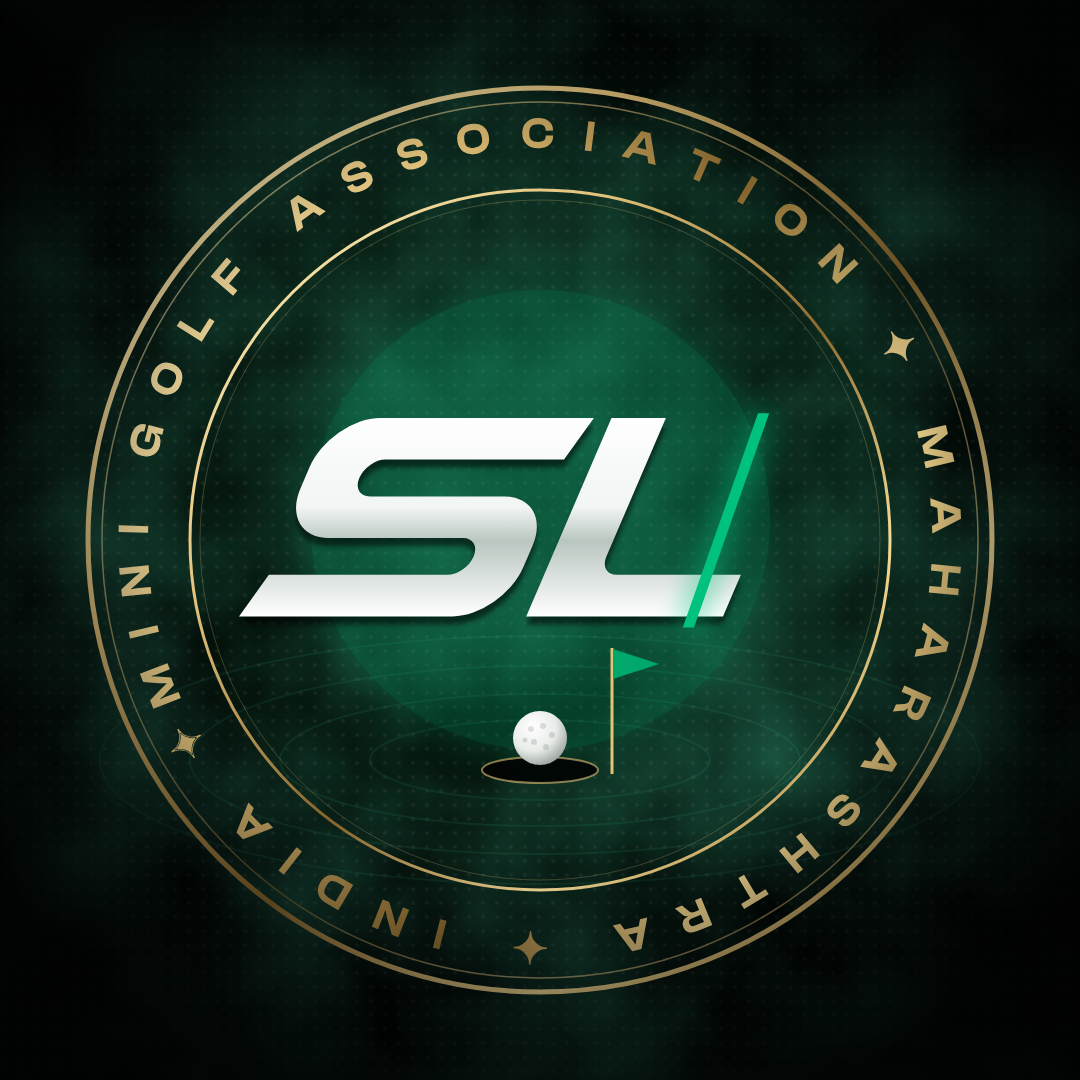
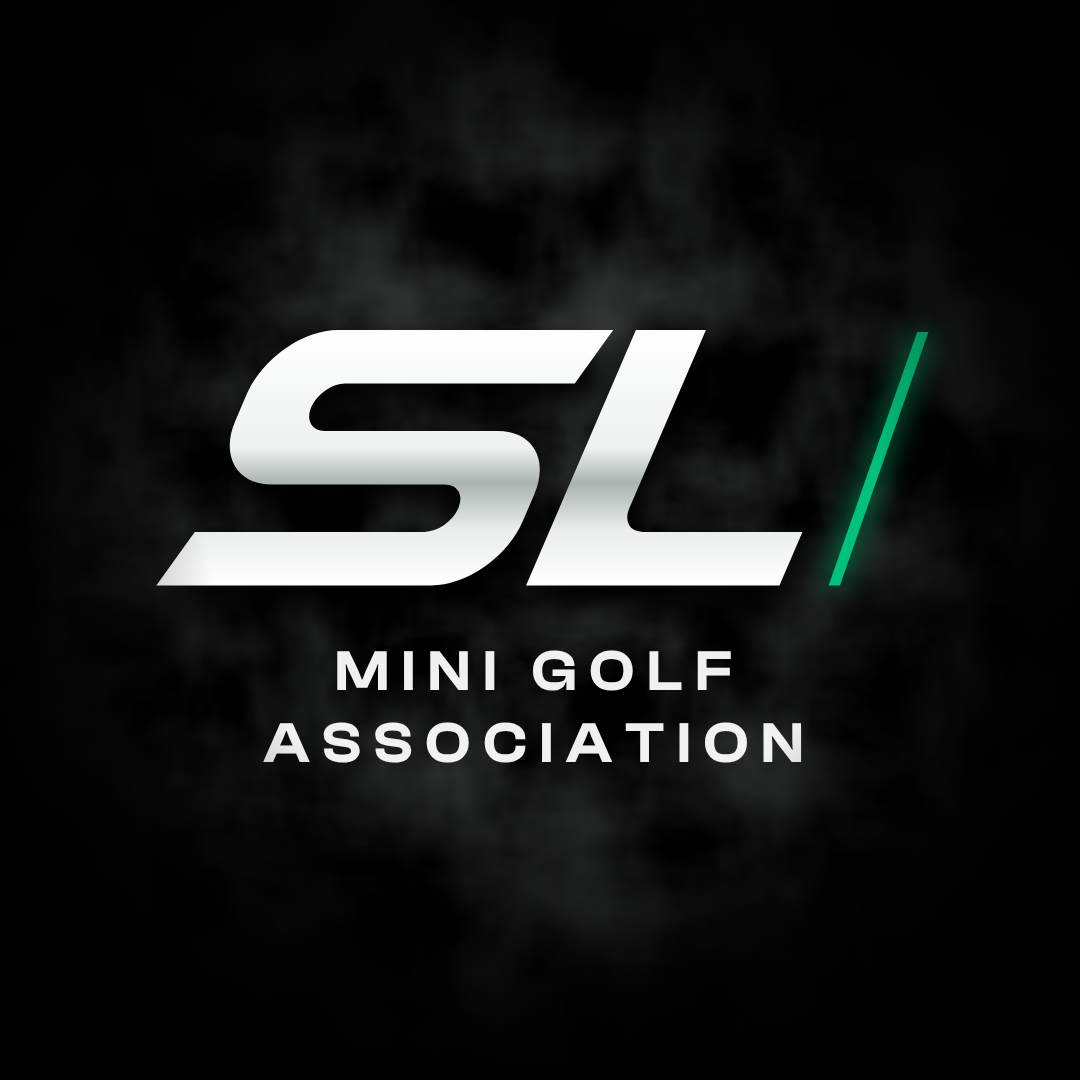
Social: new SL profile picture — big SL, name below, black smoke
Claude-Session: https://claude.ai/code/session_01UhhZpANbrgYz22YbqLpi23

diff --git a/src/app/(site)/social-media/page.tsx b/src/app/(site)/social-media/page.tsx
@@ -49,7 +49,7 @@ type Card = { group: "official" | "organisation" | "person" | "channel" } & (
 );
 
 /** The association's profile picture (the same one as on its Instagram). */
-const OFFICIAL_PICTURE: ImageAsset = { src: "/social/slmga-profile.webp", alt: "SL Mini Golf Association", width: 640, height: 640 };
+const OFFICIAL_PICTURE: ImageAsset = { src: "/social/slmga-profile-v2.webp", alt: "SL Mini Golf Association", width: 640, height: 640 };
 
 const TYPE_TAG = { organisation: "Organisation", person: "Person", channel: "Channel" } as const;
 
